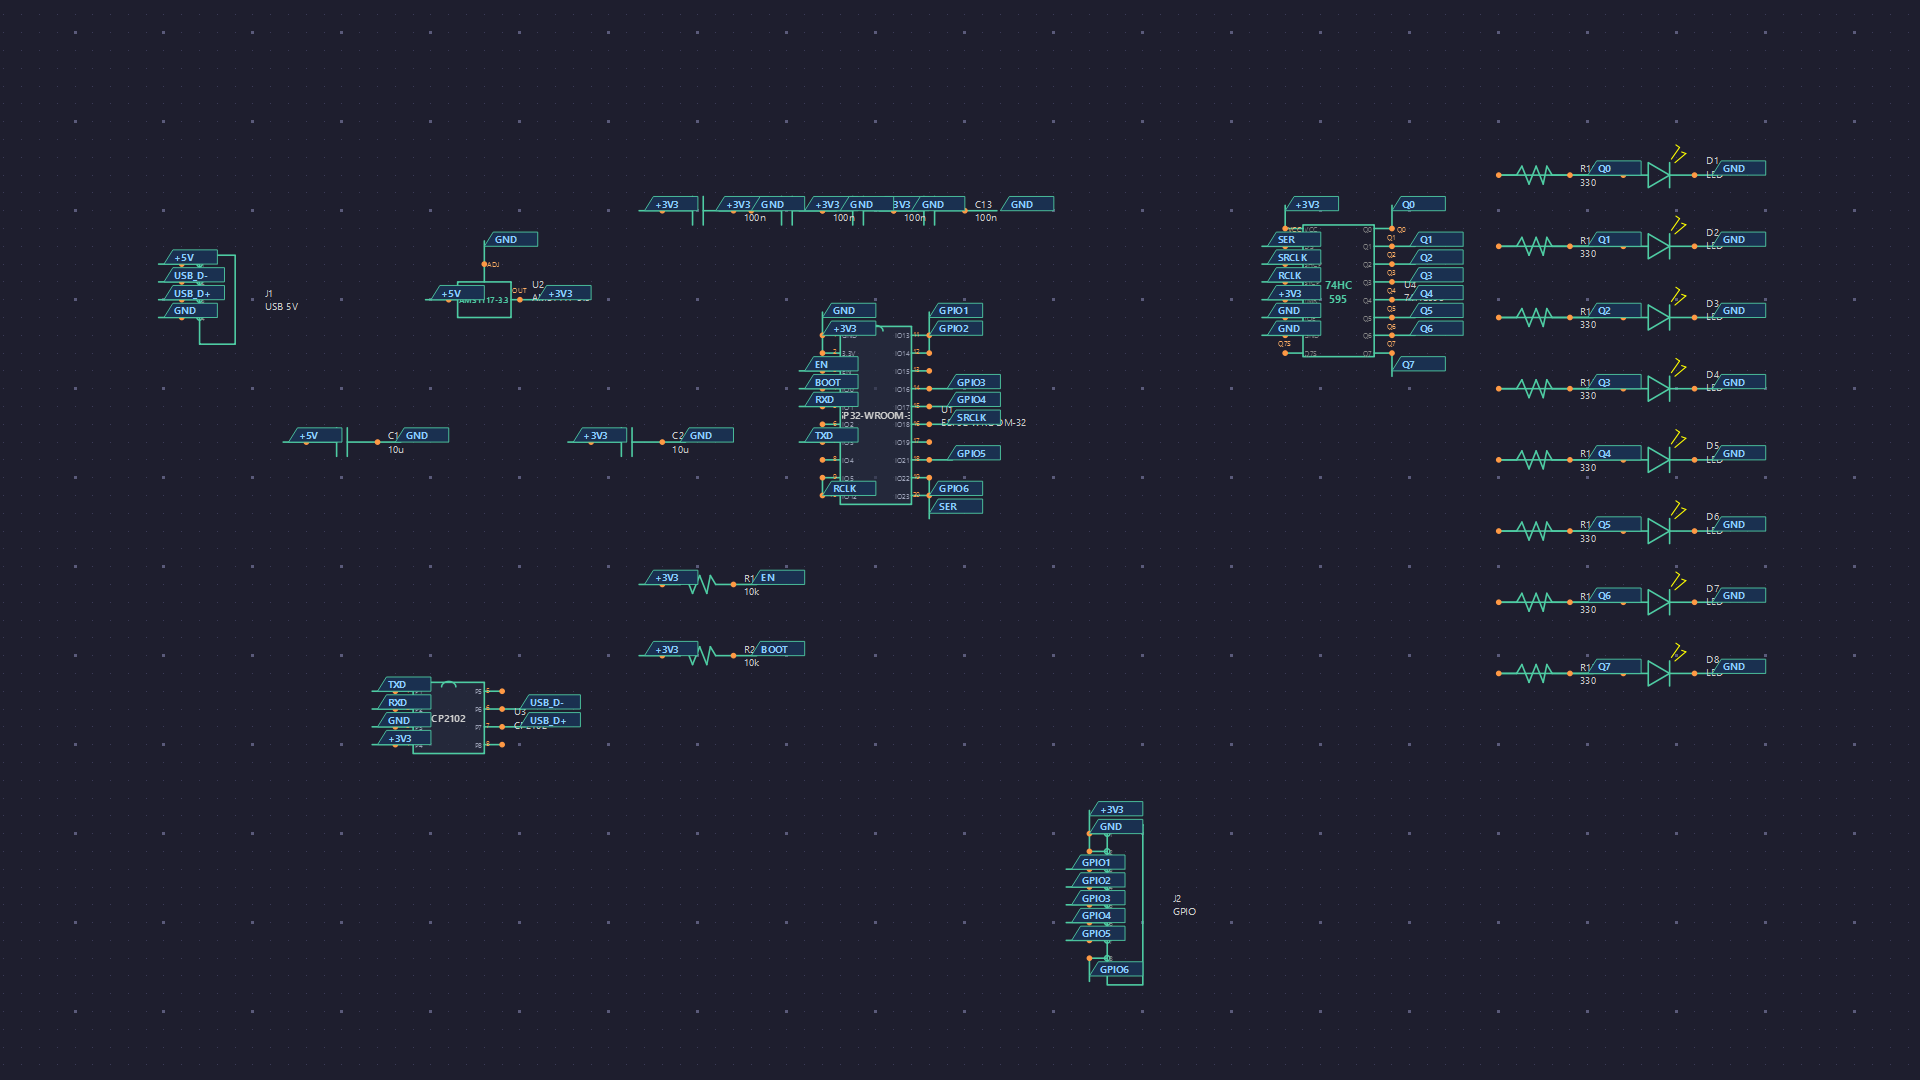
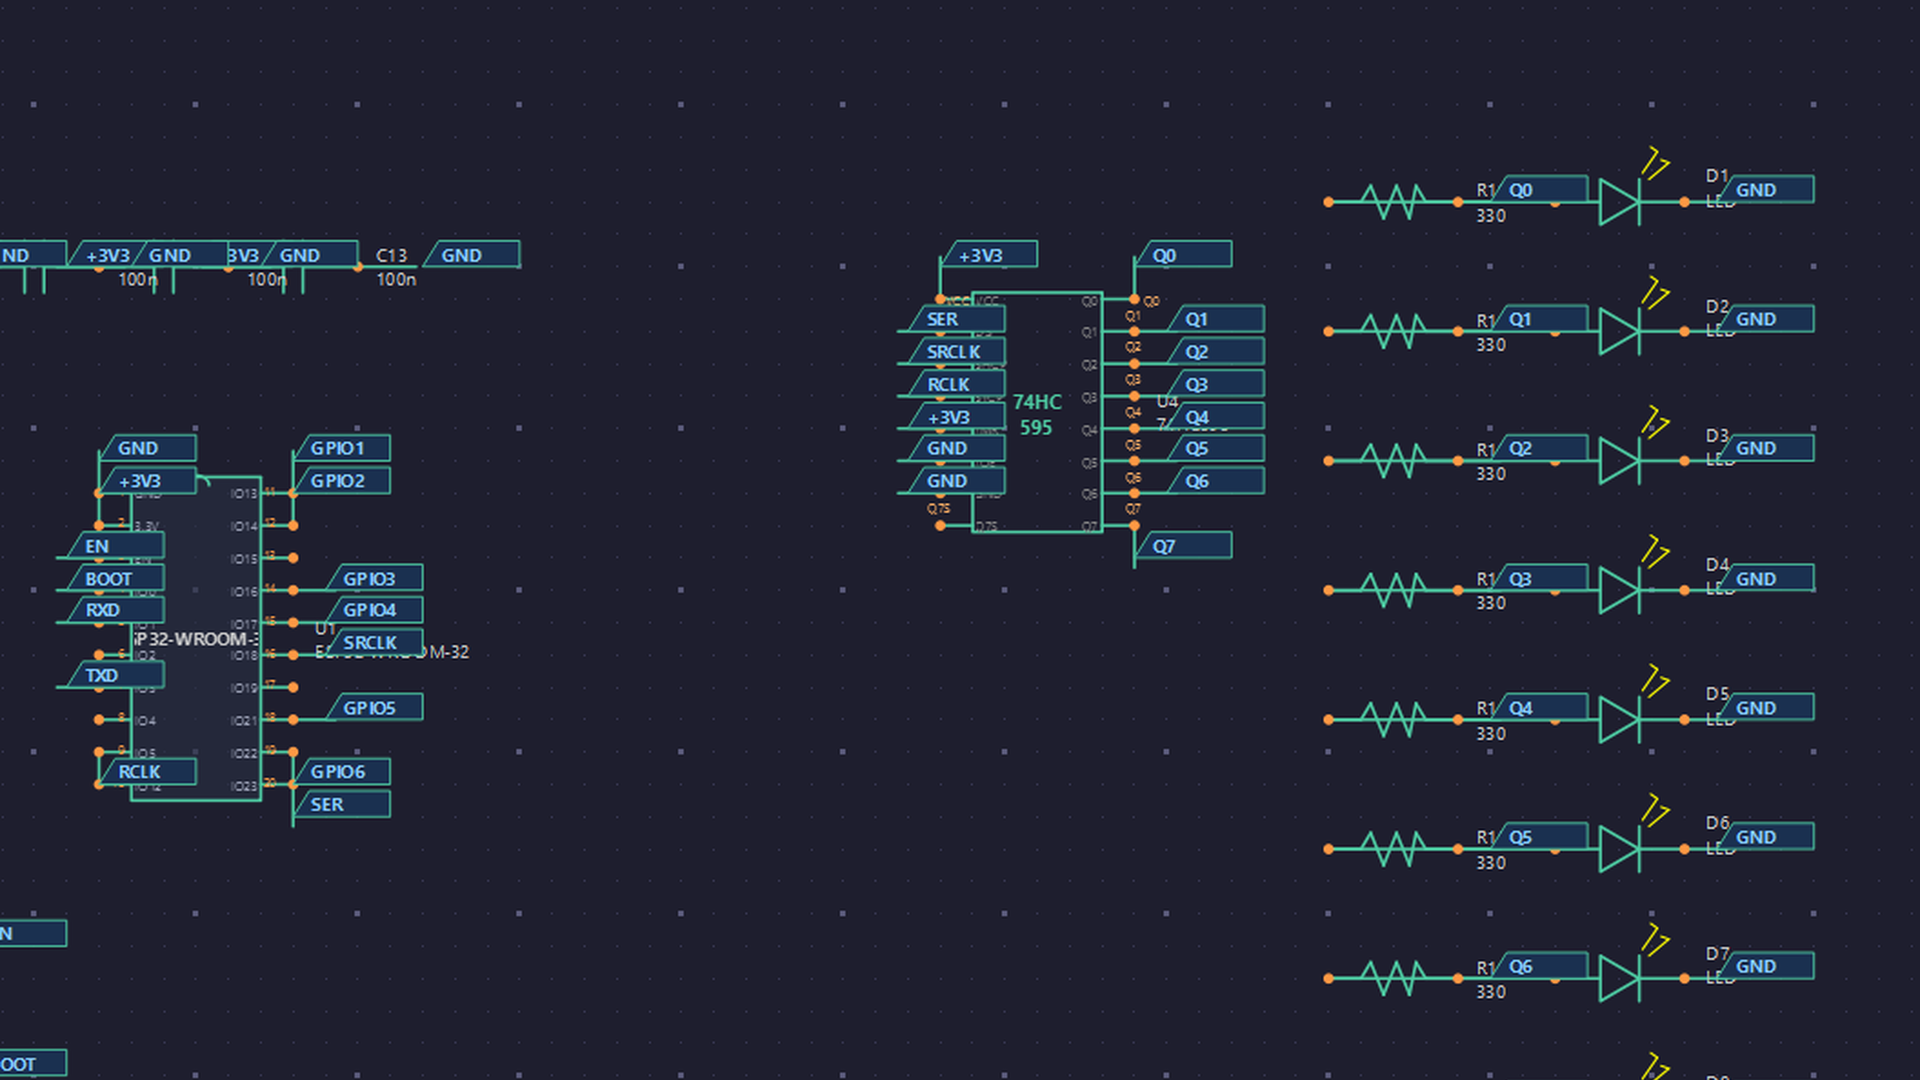
En el teléfono, el medidor tapaba el texto y el póster se veía negro
Dos cosas que sólo se ven en un teléfono de verdad, reportadas con capturas:

**El «PROGRESS 100 %» caía encima del párrafo.** En pantalla ancha el texto del
recorrido corta a 46 caracteres y nunca llega a la esquina donde vive el
medidor; en el teléfono pasa a ocupar todo el ancho y los dos se montaban. El
medidor sube a la esquina de arriba, que en esa sección es cielo: ahí está el
cobre de la escena y no hay una sola línea de texto.

**El póster del video se veía como un marco vacío.** No es que no cargara: era
el esquemático entero, repartido en 1920 px con mucho aire, reducido a los 390
de un teléfono. A ese tamaño el trazo fino desaparece y queda una mancha
oscura. Ahora es el recorte de la parte con más tinta —el 74HC595 con sus ocho
LEDs y el ESP32—, que a ancho de teléfono se lee como un circuito.

Lo segundo vale como criterio y no sólo como arreglo: una imagen se elige por
cómo se ve en el aparato donde se mira, no en el monitor donde se hizo.

diff --git a/styles.css b/styles.css
@@ -380,7 +380,17 @@ p { margin: 0 0 1em; }
 
 @media (max-width: 640px) {
   .viaje-seccion { height: 360vh; }
+  /* 🔴 El texto pasa a ocupar todo el ancho, y el medidor vive abajo a la
+     derecha: en el teléfono se montaban uno sobre otro y el párrafo quedaba
+     ilegible bajo el «PROGRESS 100 %». En pantalla grande no pasaba porque el
+     artículo corta en 46ch y nunca llega hasta esa esquina.
+     El medidor sube a la esquina de arriba, que en esta sección es cielo:
+     ahí está el cobre de la escena y no hay una sola línea de texto. */
   .viaje-textos article { max-width: none; }
+  .viaje-medidor {
+    top: clamp(1rem, 3vh, 2rem);
+    bottom: auto;
+  }
 }
 /* Sin scroll de ventana (dentro de un visor que estira el marco hasta la
    altura del contenido): la sección mide una pantalla y el recorrido corre
